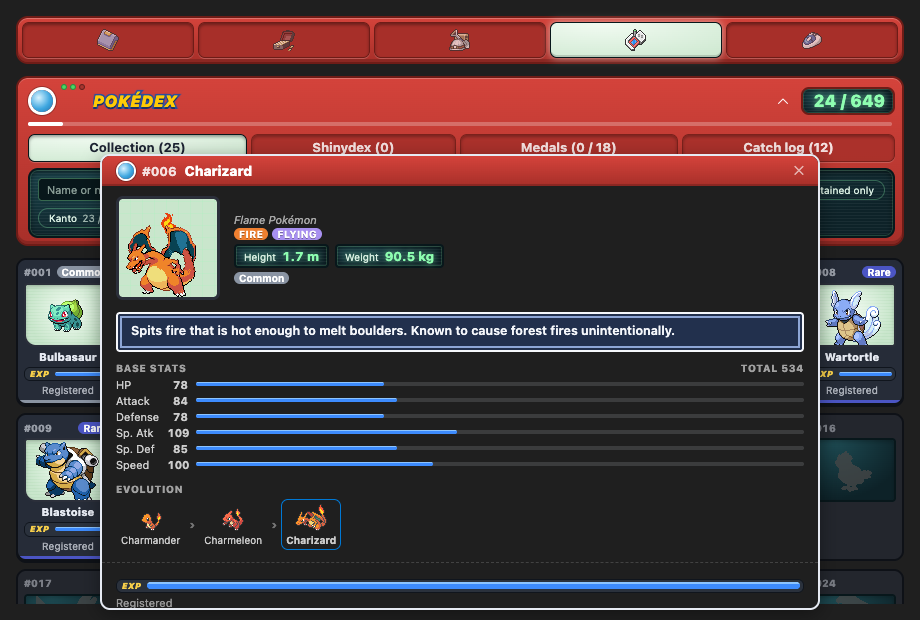
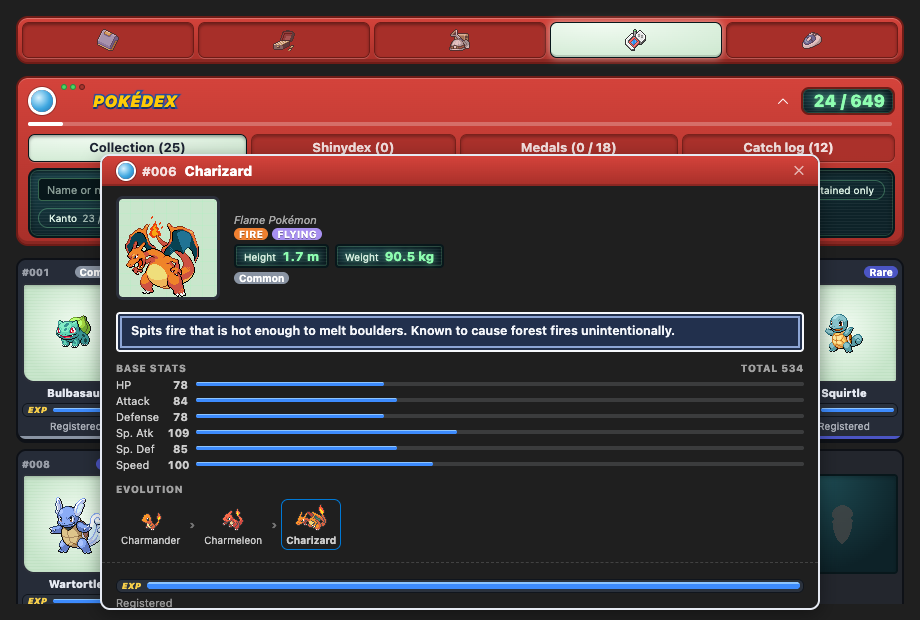
🐛 Drop the raising marker from Pokédex cards, give the grid a floor in short panels, show a preempted dialog line whole, and fit every sprite in its card's screen at ×1

diff --git a/src/webview/styles.css b/src/webview/styles.css
@@ -691,7 +691,9 @@ button.action.secondary {
    the bar's line — with the rarity along its foot. Not had yet: the games' silhouette on a dark
    screen; met: on a lit one. */
 .dex-scroll {
-  max-height: calc(100vh - var(--scroll-top, 0px));
+  /* Never under 240px: in a short panel (the bottom one, ~300px) the window left under the head
+     is next to nothing, so the list keeps a usable height and the page scrolls to it instead. */
+  max-height: max(240px, calc(100vh - var(--scroll-top, 0px)));
   margin: 0 -4px;
   padding: 2px 4px 8px;
   overflow-y: auto;
@@ -700,7 +702,8 @@ button.action.secondary {
 }
 .dex {
   display: grid;
-  grid-template-columns: repeat(auto-fill, minmax(96px, 1fr));
+  /* 108px is the narrowest card whose screen still holds the 96px sheet whole, at ×1. */
+  grid-template-columns: repeat(auto-fill, minmax(108px, 1fr));
   gap: 8px;
 }
 .dex .cell {
@@ -709,7 +712,7 @@ button.action.secondary {
   flex-direction: column;
   gap: 3px;
   min-width: 0;
-  padding: 5px 6px 7px;
+  padding: 5px 4px 7px;
   border: 2px solid var(--paper-edge);
   border-radius: var(--r-l);
   background: var(--paper);
@@ -741,12 +744,14 @@ button.action.secondary {
   opacity: 0.6;
   font-variant-numeric: tabular-nums;
 }
-/* The device's little screen, the catch card's own: the sprite at native size in its window. */
+/* The device's little screen, as tall as the sprite sheet (96px) so no Pokémon is cut (Diego):
+   the sprite at its native size wherever the column is wide enough, and scaled down to the
+   column — whole — where it is not. */
 .dex .cell-screen {
   position: relative;
   display: grid;
   place-items: center;
-  height: 64px;
+  height: 100px;
   border: 2px solid var(--lcd-bezel);
   border-radius: 4px 4px 4px 12px;
   background:
@@ -757,9 +762,10 @@ button.action.secondary {
   overflow: hidden;
 }
 .dex .cell-screen img {
-  width: 64px;
-  height: 64px;
-  object-fit: none;
+  width: 100%;
+  max-width: 96px;
+  height: 96px;
+  object-fit: scale-down;
   image-rendering: pixelated;
 }
 .dex .cell .name {
@@ -827,11 +833,6 @@ button.action.secondary {
   box-shadow:
     inset 0 0 0 1px var(--exp),
     0 2px 0 var(--paper-edge);
-}
-/* A species held only by the Pokémon being raised is not permanent yet, and saying so stops a
-   shrinking count from looking like data loss. */
-.dex .cell.raising {
-  border-style: dashed;
 }
 .dex .cell.status-registered .name {
   color: var(--ink);

diff --git a/src/webview/main.ts b/src/webview/main.ts
@@ -2036,7 +2036,7 @@ function dexCell(
     ? `<span class="tag xs state cell-line">${escapeHTML(state.strings.companionBadge)}</span>`
     : `<span class="cell-line">${escapeHTML(shinydex ? (sp.shinyBar?.text ?? sp.percentText) : sp.percentText)}</span>`
   return `
-        <button class="cell owned status-${sp.status} rarity-${escapeHTML(sp.rarity)}${shiny ? ' shiny' : ''}${sp.isCompanion ? ' companion' : ''}${sp.isRaising ? ' raising' : ''}${selected}"
+        <button class="cell owned status-${sp.status} rarity-${escapeHTML(sp.rarity)}${shiny ? ' shiny' : ''}${sp.isCompanion ? ' companion' : ''}${selected}"
                 data-dex="${id}"${tabIndex} title="${escapeHTML(sp.name)} · ${escapeHTML(sp.percentText)}">
           <span class="cell-top">
             <span class="num">${dexNumber(id)}</span>
@@ -3647,10 +3647,9 @@ function typeDialogs(): void {
     el.dataset['lineKey'] = key
     if (text === '' || motionOff() || writtenLines.has(key)) continue
     if (typing === undefined || typing.key !== key) {
-      if (typing !== undefined) {
-        clearInterval(typing.timer)
-        writtenLines.add(typing.key)
-      }
+      // The line being written gives the typewriter up whole, never half-written: two dialogs on
+      // screen at once (Home's, and the species card's over it) each end readable (plan 9.12).
+      finishDialog()
       typing = { key, text, shown: 0, timer: setInterval(stepDialog, 1000 / DIALOG_CHARS_PER_SECOND) }
     }
     paintDialogLine(el, typing.shown)

diff --git a/test/styles.test.ts b/test/styles.test.ts
@@ -144,6 +144,13 @@ describe('the stylesheet', () => {
     expect([...SCRIPT.matchAll(/expMeter\(/g)].length).toBeGreaterThanOrEqual(7)
   })
 
+  // [trigger branch] Plan 9.12 #9. With the registry, the species of the Pokémon being raised is
+  // the player's for good; a dashed card said "not yours yet", the "seen" look, on something owned.
+  it('draws no "raising" marker on a Pokédex card', () => {
+    expect(CODE).not.toMatch(/\.dex \.cell\.raising/)
+    expect(SCRIPT).not.toMatch(/isRaising \? ' raising'/)
+  })
+
   // One button per layer: the game's paper `.btn`, its priced screen and the battle `.command`.
   // VS Code's blue `button.action` belongs to the counter — only the developer tab draws one now.
   it('draws the game buttons as .btn, leaving VS Code’s blue to the counter', () => {
